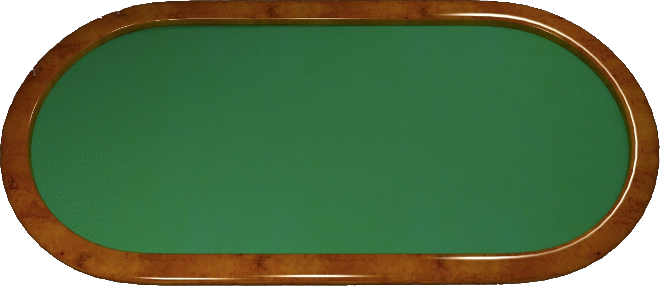
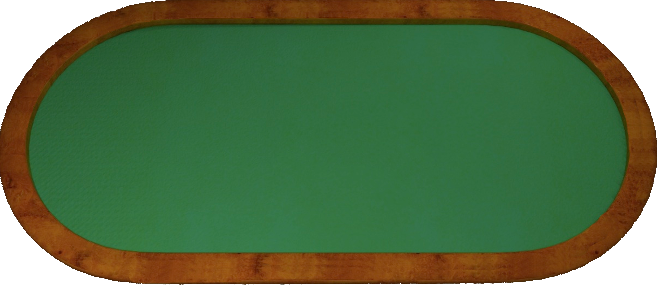
Method Rename, And Removed Shine From Table

diff --git a/src/holdem/Round.java b/src/holdem/Round.java
@@ -50,7 +50,7 @@ public class Round {
 		Collections.rotate(game.getActionsOrder(), -1);
 		game.getActionsOrder().get(0).setFirstAction(true);
 		game.getActionsOrder().get(0).setIsTurn(true);
-		game.allComputersTakeAction();
+		game.allPlayersTakeAction();
 	}
 
 	public void preTurn() {
@@ -59,46 +59,58 @@ public class Round {
 		Collections.rotate(game.getActionsOrder(), -3);
 		game.getActionsOrder().get(0).setFirstAction(true);
 		game.getActionsOrder().get(0).setIsTurn(true);
-		game.allComputersTakeAction();
-		;
+		game.allPlayersTakeAction();
 	}
 
 	public void preRiver() {
 		minBet = game.getBigBlind();
 		game.getActionsOrder().get(0).setIsTurn(true);
-		game.allComputersTakeAction();
+		game.allPlayersTakeAction();
 	}
 
 	public void postRiver() {
 		minBet = game.getBigBlind();
 		game.getActionsOrder().get(0).setIsTurn(true);
-		game.allComputersTakeAction();
+		game.allPlayersTakeAction();
 	}
 
 	// Check To See If Should Move To Next Round
 	public boolean moveOn() {
-		// Skips If Someone Had Raised, And Resets All Action Booleans Back To
-		// Null
-		int highestBetAmount = 1;
+		int highestBetAmount = 0;
 		int totalActive = 0;
+		int check = 0;
+		int call = 0;
+		int raise = 0;
+		int fold = 0;
 		for (Player p : game.getActionsOrder()) {
 			if (!p.isFolded()) {
 				if (p.getBetAmount() > highestBetAmount) {
 					highestBetAmount = p.getBetAmount();
 				}
+				if (p.getCheckBoolean()) {
+					check++;
+				} else if (p.getCallBoolean()) {
+					call++;
+				} else if (p.getRaiseBoolean()) {
+					raise++;
+				}
 				totalActive++;
+			} else {
+				fold++;
 			}
 		}
+
 		for (Player p : game.getActionsOrder()) {
 			if (!p.isFolded()) {
 				if (p.getBetAmount() == highestBetAmount)
 					totalActive--;
 			}
 		}
-		
-		if(totalActive != 0){
+
+		if (totalActive != 0 || (call + raise + fold) != game.getActionsOrder().size()) {
 			return false;
 		}
+
 		// Else Reset Stuff
 		game.resetPlayerBetAmount();
 		for (Player p : game.getPlayers()) {
@@ -106,7 +118,7 @@ public class Round {
 			p.setIsTurn(false);
 		}
 
-		// And Proceeds To Next Round If None Of The Above Are True
+		// And Proceeds To Next Round
 		if (stageOfRound == 0) {
 			stageOfRound++;
 			System.out.println("Stage: " + stageOfRound);

diff --git a/src/holdem/HoldemGame.java b/src/holdem/HoldemGame.java
@@ -104,24 +104,24 @@ public class HoldemGame {
 		Collections.rotate(actionsOrder, -1);
 	}
 
-	public void allComputersTakeAction() {
+	public void allPlayersTakeAction() {
 		new Thread(new Runnable() {
 			@SuppressWarnings("static-access")
 			public void run() {
 				int numberOfRaises = 0;
 				boolean checkRaise = false;
-				for (Player computer : actionsOrder) {
-					if (!computer.isFolded()) {
-						if (!computer.equals(getUser())) {
+				for (Player player : actionsOrder) {
+					if (!player.isFolded()) {
+						if (!player.equals(getUser())) {
 							getUser().setIsTurn(false);
-							computer.setIsTurn(true);
+							player.setIsTurn(true);
 							try {
 								Thread.currentThread().sleep(((int) (Math.random() * 3) + 3) * 1000);
 							} catch (InterruptedException e) {
 								e.printStackTrace();
 							}
-							computer.takeAction();
-							computer.setIsTurn(false);
+							player.takeAction();
+							player.setIsTurn(false);
 							if (getRound().moveOn()) {
 								System.out.println("Break");
 								break;

diff --git a/src/holdem/Computer.java b/src/holdem/Computer.java
@@ -43,7 +43,6 @@ public class Computer extends Player {
 				break;
 			}
 		}
-		System.out.println("Index Before: " + game.getActionsOrder().get(indexBefore).getPosition());
 		
 		// Actions Based Off Of The Player Before This
 		// If Player Before Checked
@@ -112,7 +111,6 @@ public class Computer extends Player {
 				break;
 			}
 		}
-		System.out.println("Index Before: " + game.getActionsOrder().get(indexBefore).getPosition());
 
 		// Actions Based Off Of Player Before This
 		// If Player Before Checked
